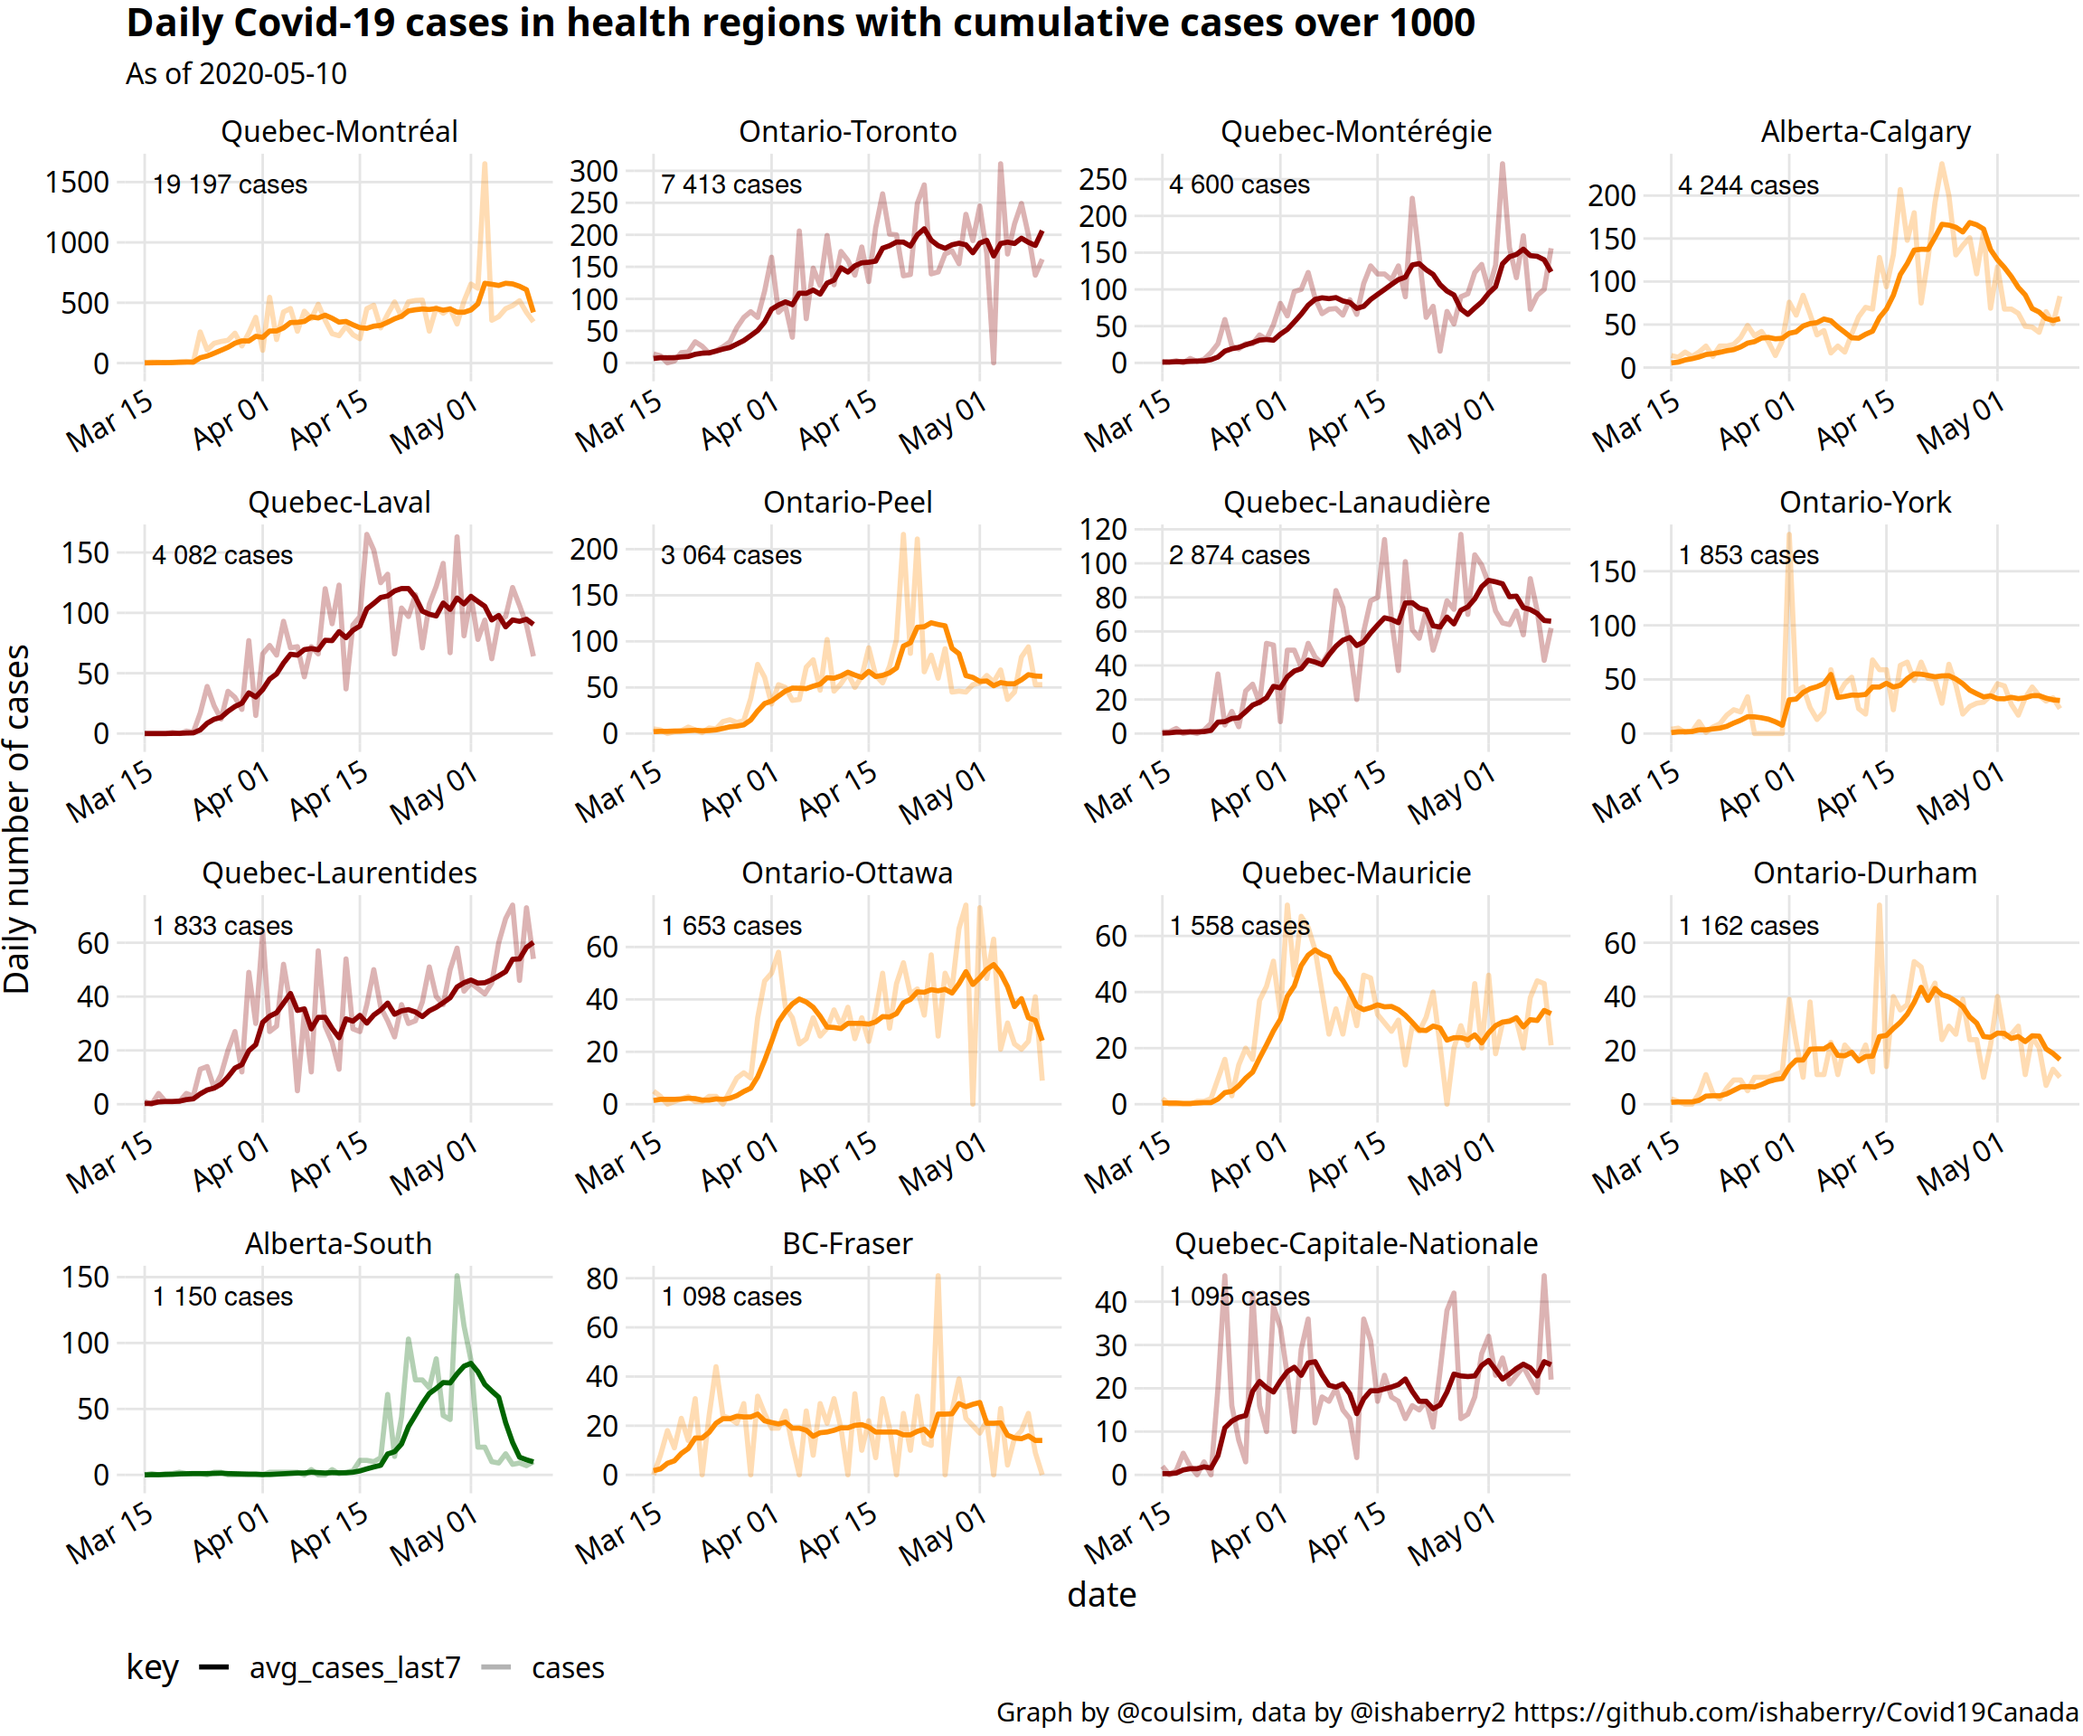
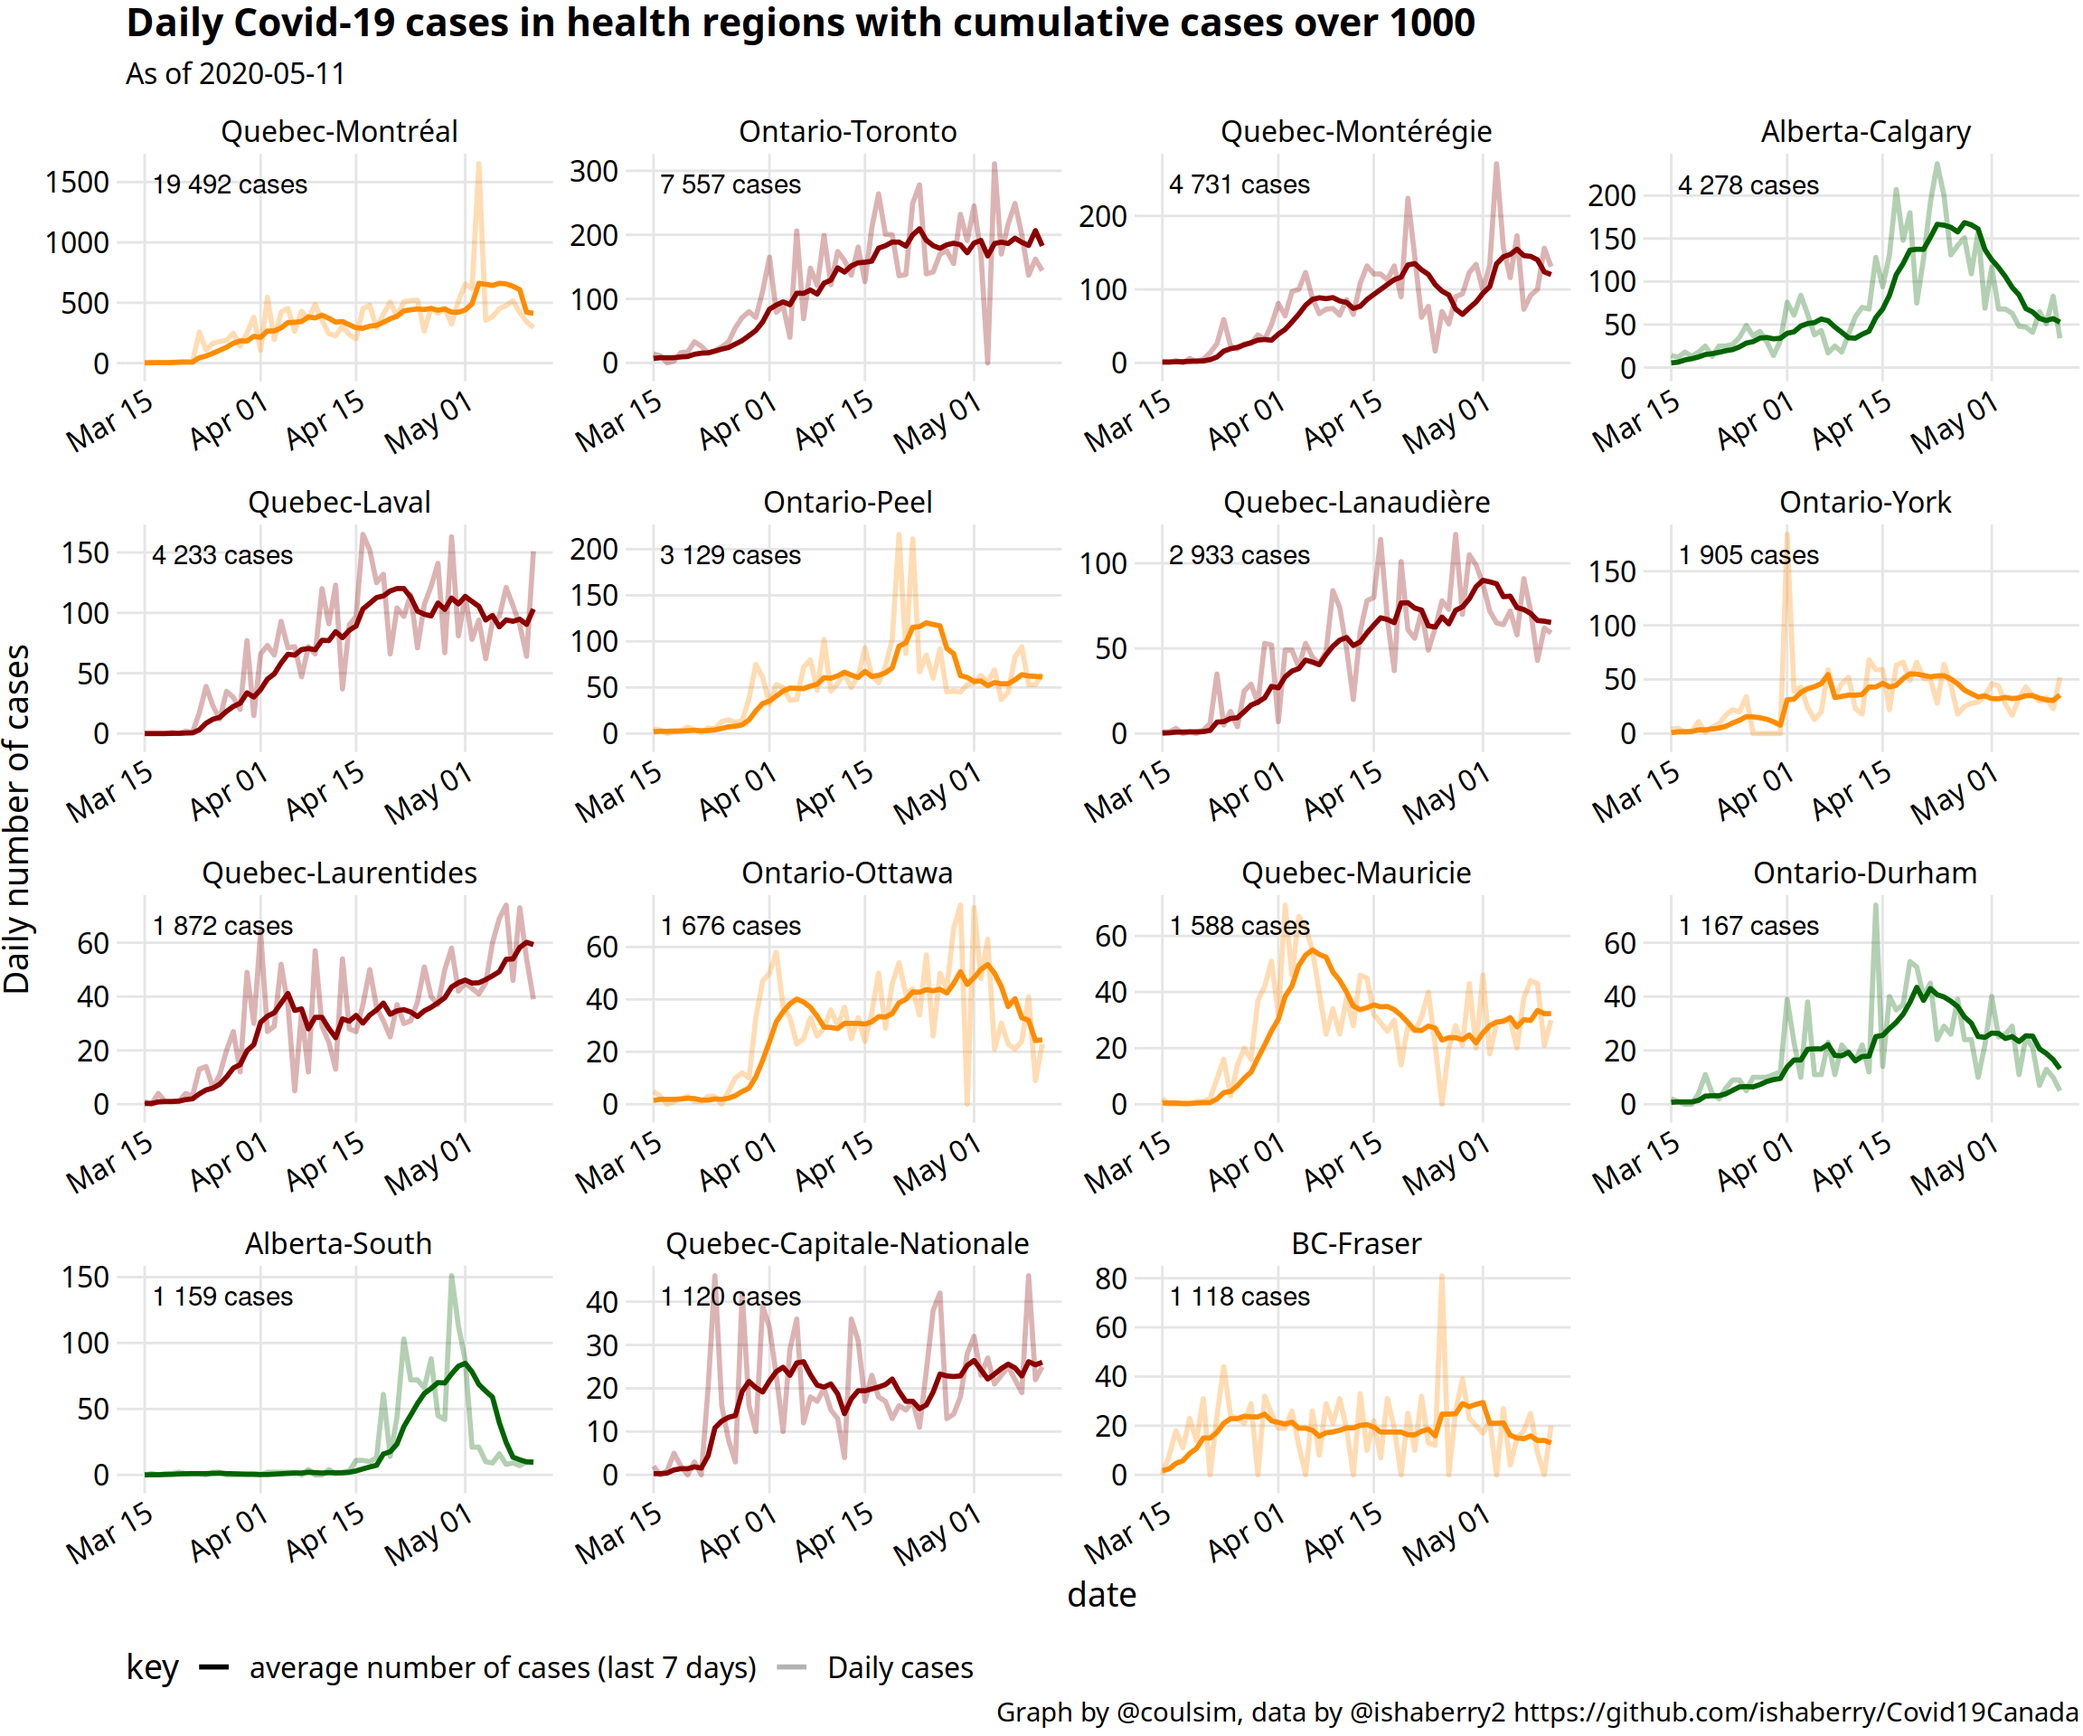
covid19 montreal

diff --git a/content/post/2020-05-10-covid19-cases-in-canadian-health-regions-with-over-1000-cumulative-cases.html b/content/post/2020-05-10-covid19-cases-in-canadian-health-regions-with-over-1000-cumulative-cases.html
@@ -20,31 +20,47 @@ We’ll use the data compiled by Isha Berry &amp; friends at <a href="https://gi
 <h1>Canada - health regions with over 1000 cumulative cases</h1>
 <p><img src="/post/2020-05-10-covid19-cases-in-canadian-health-regions-with-over-1000-cumulative-cases_files/figure-html/canada-1.png" width="1152" style="display: block; margin: auto;" /></p>
 </div>
-<div id="quebec" class="section level1">
-<h1>Quebec</h1>
+<div id="provinces" class="section level1">
+<h1>Provinces</h1>
+<pre><code>## [[1]]</code></pre>
 <p><img src="/post/2020-05-10-covid19-cases-in-canadian-health-regions-with-over-1000-cumulative-cases_files/figure-html/qc-1.png" width="1152" style="display: block; margin: auto;" /></p>
+<pre><code>## 
+## [[2]]</code></pre>
+<p><img src="/post/2020-05-10-covid19-cases-in-canadian-health-regions-with-over-1000-cumulative-cases_files/figure-html/qc-2.png" width="1152" style="display: block; margin: auto;" /></p>
+<pre><code>## 
+## [[3]]</code></pre>
+<p><img src="/post/2020-05-10-covid19-cases-in-canadian-health-regions-with-over-1000-cumulative-cases_files/figure-html/qc-3.png" width="1152" style="display: block; margin: auto;" /></p>
+<pre><code>## 
+## [[4]]</code></pre>
+<p><img src="/post/2020-05-10-covid19-cases-in-canadian-health-regions-with-over-1000-cumulative-cases_files/figure-html/qc-4.png" width="1152" style="display: block; margin: auto;" /></p>
+<pre><code>## 
+## [[5]]</code></pre>
+<p><img src="/post/2020-05-10-covid19-cases-in-canadian-health-regions-with-over-1000-cumulative-cases_files/figure-html/qc-5.png" width="1152" style="display: block; margin: auto;" /></p>
+<pre><code>## 
+## [[6]]</code></pre>
+<p><img src="/post/2020-05-10-covid19-cases-in-canadian-health-regions-with-over-1000-cumulative-cases_files/figure-html/qc-6.png" width="1152" style="display: block; margin: auto;" /></p>
+<pre><code>## 
+## [[7]]</code></pre>
+<p><img src="/post/2020-05-10-covid19-cases-in-canadian-health-regions-with-over-1000-cumulative-cases_files/figure-html/qc-7.png" width="1152" style="display: block; margin: auto;" /></p>
+<pre><code>## 
+## [[8]]</code></pre>
+<p><img src="/post/2020-05-10-covid19-cases-in-canadian-health-regions-with-over-1000-cumulative-cases_files/figure-html/qc-8.png" width="1152" style="display: block; margin: auto;" /></p>
+<pre><code>## 
+## [[9]]</code></pre>
+<p><img src="/post/2020-05-10-covid19-cases-in-canadian-health-regions-with-over-1000-cumulative-cases_files/figure-html/qc-9.png" width="1152" style="display: block; margin: auto;" /></p>
+<pre><code>## 
+## [[10]]</code></pre>
+<p><img src="/post/2020-05-10-covid19-cases-in-canadian-health-regions-with-over-1000-cumulative-cases_files/figure-html/qc-10.png" width="1152" style="display: block; margin: auto;" /></p>
+<pre><code>## 
+## [[11]]</code></pre>
+<p><img src="/post/2020-05-10-covid19-cases-in-canadian-health-regions-with-over-1000-cumulative-cases_files/figure-html/qc-11.png" width="1152" style="display: block; margin: auto;" /></p>
+<pre><code>## 
+## [[12]]</code></pre>
+<p><img src="/post/2020-05-10-covid19-cases-in-canadian-health-regions-with-over-1000-cumulative-cases_files/figure-html/qc-12.png" width="1152" style="display: block; margin: auto;" /></p>
 </div>
-<div id="ontario" class="section level1">
-<h1>Ontario</h1>
-<p><img src="/post/2020-05-10-covid19-cases-in-canadian-health-regions-with-over-1000-cumulative-cases_files/figure-html/on-1.png" width="1152" style="display: block; margin: auto;" /></p>
-</div>
-<div id="british-columbia" class="section level1">
-<h1>British-Columbia</h1>
-<p><img src="/post/2020-05-10-covid19-cases-in-canadian-health-regions-with-over-1000-cumulative-cases_files/figure-html/bc-1.png" width="1152" style="display: block; margin: auto;" /></p>
-</div>
-<div id="saskatchewan" class="section level1">
-<h1>Saskatchewan</h1>
-<p><img src="/post/2020-05-10-covid19-cases-in-canadian-health-regions-with-over-1000-cumulative-cases_files/figure-html/sk-1.png" width="1152" style="display: block; margin: auto;" /></p>
-</div>
-<div id="manitoba" class="section level1">
-<h1>Manitoba</h1>
-<p><img src="/post/2020-05-10-covid19-cases-in-canadian-health-regions-with-over-1000-cumulative-cases_files/figure-html/mb-1.png" width="1152" style="display: block; margin: auto;" /></p>
-</div>
-<div id="nova-scotia" class="section level1">
-<h1>Nova Scotia</h1>
-<p><img src="/post/2020-05-10-covid19-cases-in-canadian-health-regions-with-over-1000-cumulative-cases_files/figure-html/ns-1.png" width="1152" style="display: block; margin: auto;" /></p>
-</div>
-<div id="new-brunswick" class="section level1">
-<h1>New Brunswick</h1>
-<p><img src="/post/2020-05-10-covid19-cases-in-canadian-health-regions-with-over-1000-cumulative-cases_files/figure-html/nb-1.png" width="1152" style="display: block; margin: auto;" /></p>
+<div id="montréal" class="section level1">
+<h1>Montréal</h1>
+<p>données arrondissement montréal
+<img src="/post/2020-05-10-covid19-cases-in-canadian-health-regions-with-over-1000-cumulative-cases_files/figure-html/unnamed-chunk-3-1.png" width="1152" style="display: block; margin: auto;" /></p>
+<p><img src="/post/2020-05-10-covid19-cases-in-canadian-health-regions-with-over-1000-cumulative-cases_files/figure-html/unnamed-chunk-4-1.png" width="1152" style="display: block; margin: auto;" /></p>
 </div>
